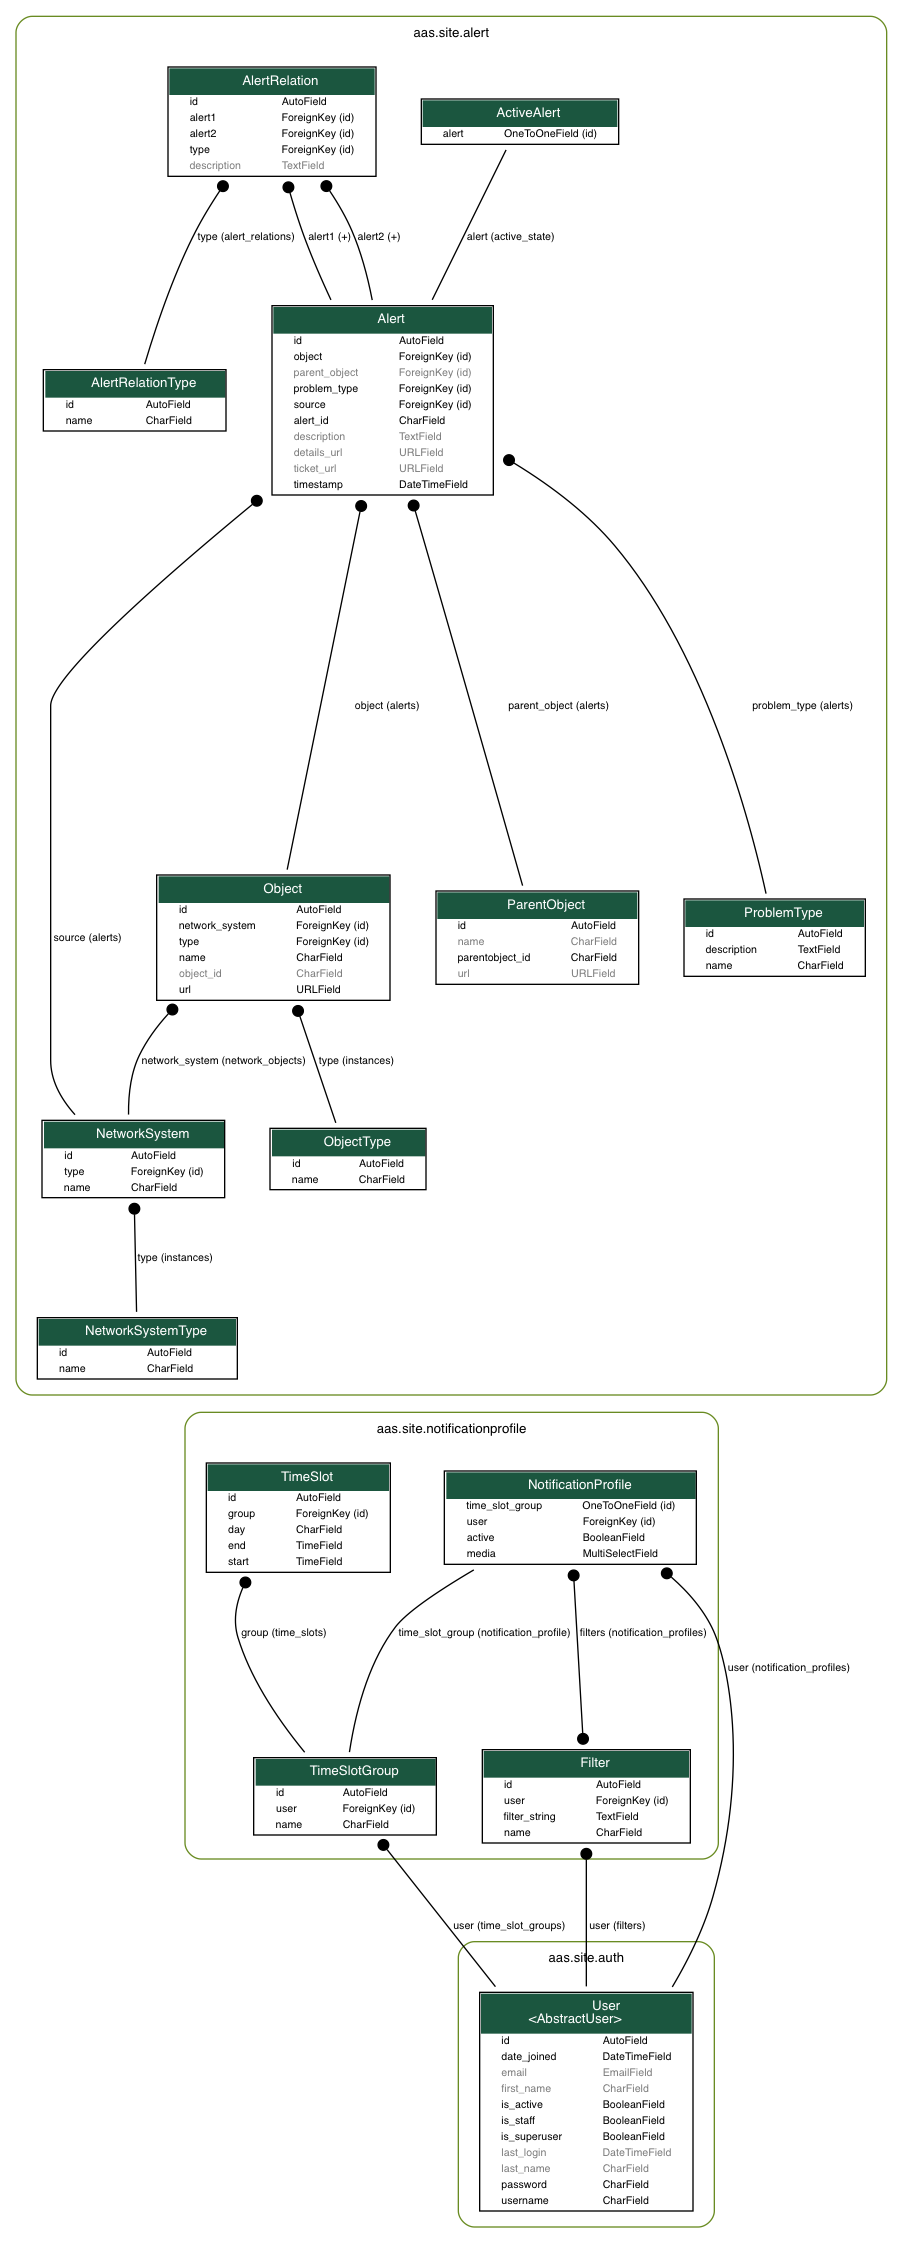
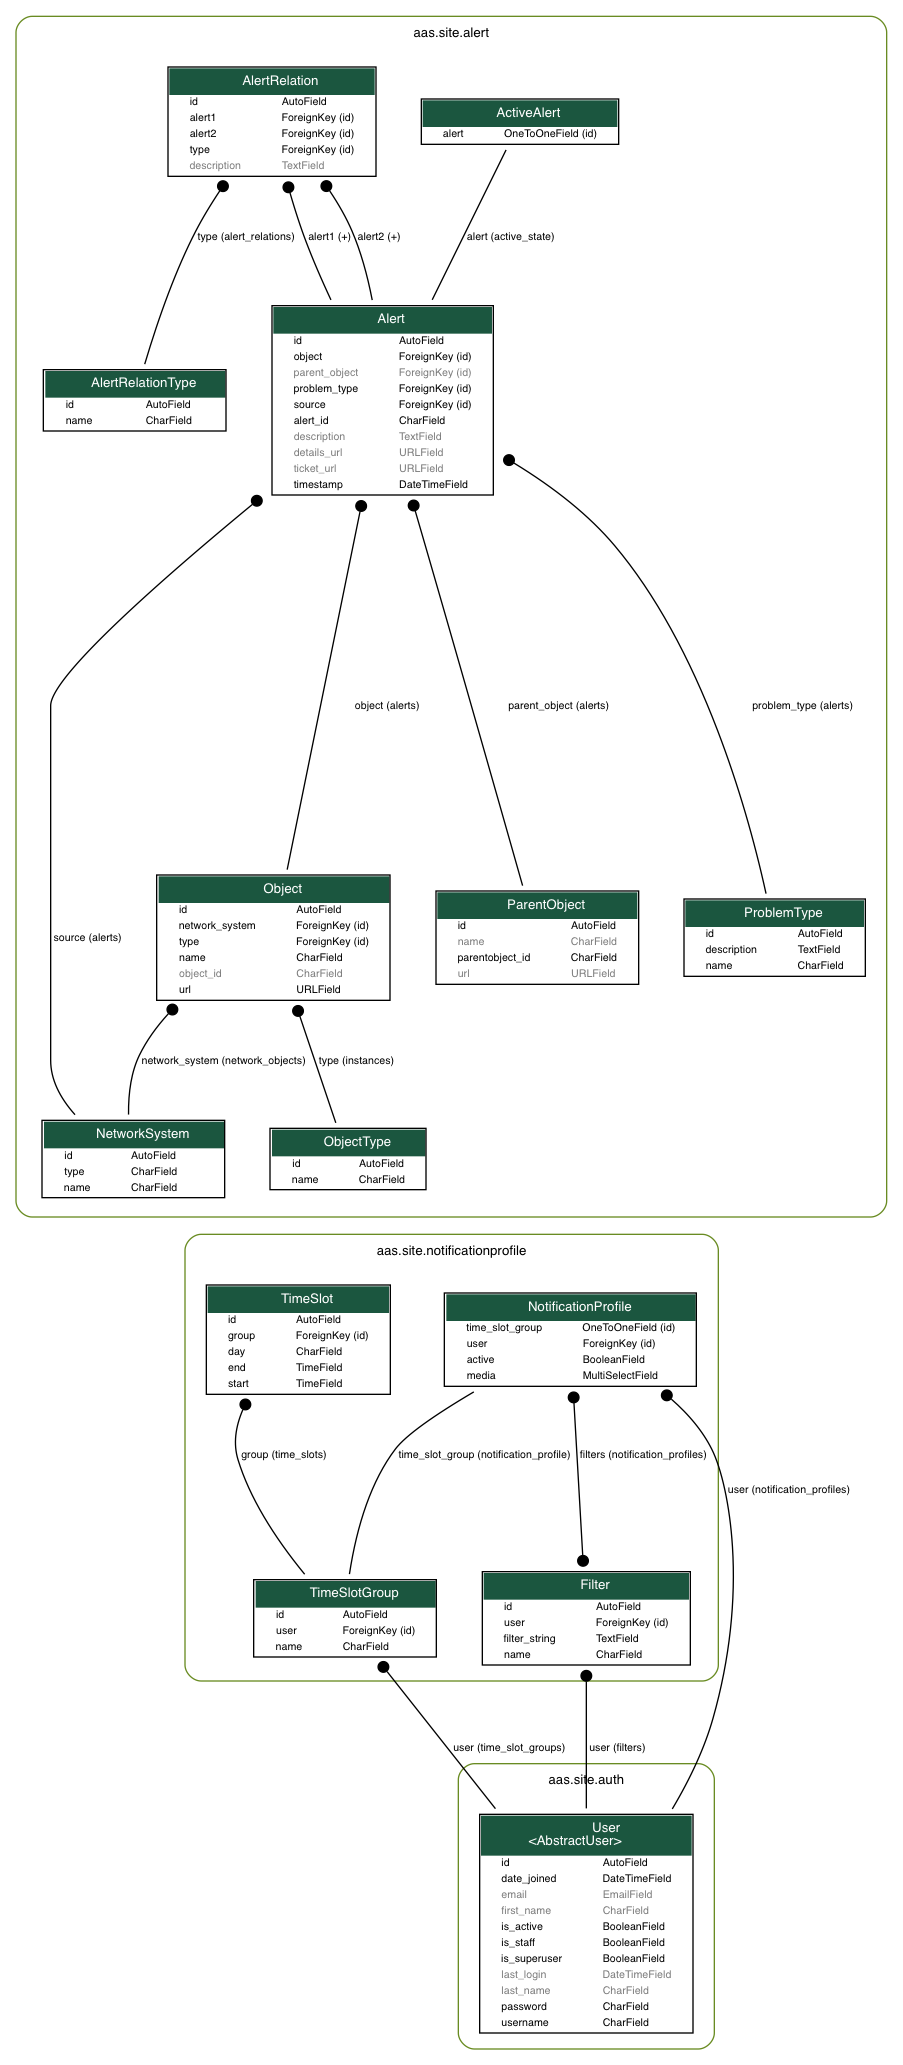
Replaced NetworkSystemType with choice field :sparkles:

diff --git a/src/aas/site/alert/mappings.py b/src/aas/site/alert/mappings.py
@@ -2,6 +2,7 @@ import random
 from typing import Tuple, Type, Union
 
 from django.db import IntegrityError, models
+from rest_framework import serializers
 from rest_framework.exceptions import ValidationError
 
 from .models import Alert, NetworkSystem, Object, ObjectType, ParentObject, ProblemType
@@ -105,7 +106,7 @@ class ForeignKeyField(FieldValueGetter):
 
 
 class FieldMapping:
-    def __init__(self, model: Type[models.Model], base_field_mappings: dict, *conditional_field_mappings: Choose):
+    def __init__(self, network_system_type: str, model: Type[models.Model], base_field_mappings: dict, *conditional_field_mappings: Choose):
         all_field_mappings = (
             base_field_mappings,
             *(cf.arg for cf in conditional_field_mappings),
@@ -117,6 +118,7 @@ class FieldMapping:
             validate_field_mappings(model, field_mappings)
             MappingUtils.prepare_field_value_getters(model, field_mappings)
 
+        self.network_system_type = network_system_type
         self.model = model
         self.base_field_mappings = base_field_mappings
         self.conditional_field_mappings = conditional_field_mappings
@@ -132,7 +134,7 @@ class FieldMapping:
         }
 
         # TODO: remove once source is saved from posted alerts
-        model_obj_kwargs['source'] = random.choice(NetworkSystem.objects.all())
+        model_obj_kwargs['source'] = random.choice(NetworkSystem.objects.filter(type=self.network_system_type))
 
         try:
             model_obj, _created = self.model.objects.get_or_create(**model_obj_kwargs)
@@ -148,6 +150,7 @@ class FieldMapping:
 
 
 NAV_FIELD_MAPPING = FieldMapping(
+    NetworkSystem.NAV,
     Alert,
     {
         Alert.timestamp:    PassthroughField('time'),
@@ -204,3 +207,17 @@ NAV_FIELD_MAPPING = FieldMapping(
         }
     )
 )
+
+SOURCE_MAPPING_DICT = {
+    NetworkSystem.NAV:    NAV_FIELD_MAPPING,
+    NetworkSystem.ZABBIX: None,
+}
+
+
+def create_alert_from_json(json_dict: dict, alert_source_type: str):
+    try:
+        mapping = SOURCE_MAPPING_DICT[alert_source_type]
+    except KeyError:
+        raise serializers.ValidationError(f"Invalid network system type '{alert_source_type}'.")
+
+    return mapping.create_model_obj_from_json(json_dict)

diff --git a/src/aas/site/alert/fixtures/generate_fixtures.py b/src/aas/site/alert/fixtures/generate_fixtures.py
@@ -99,7 +99,7 @@ def roll_dice(chance_threshold: float) -> bool:
 
 
 def format_url(network_system: NetworkSystem, name: str) -> str:
-    return f"http://{network_system.name}.{network_system.type.name}.no/{name.replace(' ', '%20')}".lower()
+    return f"http://{network_system.name}.{network_system.get_type_display()}.no/{name.replace(' ', '%20')}".lower()
 
 
 def set_pks(model_objects: List[Model]) -> List[Model]:
@@ -111,11 +111,8 @@ def set_pks(model_objects: List[Model]) -> List[Model]:
 
 
 # --- Generation functions ---
-def generate_network_system_types() -> List[Model]:
-    return set_pks([
-        NetworkSystemType(name="NAV"),
-        NetworkSystemType(name="Zabbix"),
-    ])
+def generate_network_system_types() -> List[str]:
+    return [type_key for type_key, _type_name in NetworkSystem.TYPE_CHOICES]
 
 
 def generate_network_systems(network_system_types) -> List[Model]:
@@ -238,8 +235,7 @@ def generate_alerts(network_systems, objects, parent_objects, problem_types) -> 
 
 
 def create_fixture_file():
-    network_system_types = generate_network_system_types()
-    network_systems = generate_network_systems(network_system_types)
+    network_systems = generate_network_systems(generate_network_system_types())
     object_types = generate_object_types()
     objects = generate_objects(object_types, network_systems)
     parent_objects = generate_parent_objects(network_systems)
@@ -247,7 +243,6 @@ def create_fixture_file():
     alerts = generate_alerts(network_systems, objects, parent_objects, problem_types)
 
     all_objects = (
-        *network_system_types,
         *network_systems,
         *object_types,
         *objects,

diff --git a/src/aas/site/alert/serializers.py b/src/aas/site/alert/serializers.py
@@ -1,26 +1,17 @@
 from rest_framework import serializers
 
-from .models import Alert, NetworkSystem, NetworkSystemType, Object, ObjectType, ParentObject, ProblemType
-
-
-class NetworkSystemTypeSerializer(serializers.ModelSerializer):
-    class Meta:
-        model = NetworkSystemType
-        fields = ['pk', 'name']
-        read_only_fields = ['pk']
+from .models import Alert, NetworkSystem, Object, ObjectType, ParentObject, ProblemType
 
 
 class NetworkSystemSerializer(serializers.ModelSerializer):
     class Meta:
         model = NetworkSystem
         fields = ['pk', 'name', 'type']
-        read_only_fields = ['pk']
+        read_only_fields = ['pk', 'type']
 
-    # type = NetworkSystemTypeSerializer(read_only=True)
-
-    def to_representation(self, instance):
+    def to_representation(self, instance: NetworkSystem):
         representation = super().to_representation(instance)
-        representation['type'] = NetworkSystemTypeSerializer(instance.type).data
+        representation['type'] = instance.get_type_display()
         return representation
 
 
@@ -39,7 +30,7 @@ class ObjectSerializer(serializers.ModelSerializer):
 
     # type = ObjectTypeSerializer(read_only=True)
 
-    def to_representation(self, instance):
+    def to_representation(self, instance: Object):
         representation = super().to_representation(instance)
         representation['type'] = ObjectTypeSerializer(instance.type).data
         return representation

diff --git a/src/aas/site/alert/admin.py b/src/aas/site/alert/admin.py
@@ -1,10 +1,6 @@
 from django.contrib import admin
 
-from .models import ActiveAlert, Alert, AlertRelation, AlertRelationType, NetworkSystem, NetworkSystemType, Object, ObjectType, ParentObject, ProblemType
-
-
-class NetworkSystemTypeAdmin(admin.ModelAdmin):
-    list_display = ('name',)
+from .models import ActiveAlert, Alert, AlertRelation, AlertRelationType, NetworkSystem, Object, ObjectType, ParentObject, ProblemType
 
 
 class NetworkSystemAdmin(admin.ModelAdmin):
@@ -56,7 +52,7 @@ class AlertAdmin(admin.ModelAdmin):
     list_display = ('alert_id', 'timestamp', 'source', 'object', 'parent_object', 'details_url', 'problem_type', 'ticket_url', 'get_active_state')
     search_fields = (
         'alert_id',
-        'source__name', 'source__type__name',
+        'source__name', 'source__type',
         'object__name', 'object__object_id', 'object__type__name',
         'parent_object__name', 'parent_object__parentobject_id',
         'problem_type__name',
@@ -102,7 +98,6 @@ class AlertRelationAdmin(admin.ModelAdmin):
     get_str.short_description = "Alert relation"
 
 
-admin.site.register(NetworkSystemType, NetworkSystemTypeAdmin)
 admin.site.register(NetworkSystem, NetworkSystemAdmin)
 admin.site.register(ObjectType, ObjectTypeAdmin)
 admin.site.register(Object, ObjectAdmin)

diff --git a/src/aas/site/alert/models.py b/src/aas/site/alert/models.py
@@ -2,26 +2,19 @@ from django.db import models
 from django.db.models import Q, QuerySet
 
 
-class NetworkSystemType(models.Model):
-    class Meta:
-        ordering = ['name']
-
-    name = models.CharField(max_length=50)
-
-    def __str__(self):
-        return self.name
-
-
 class NetworkSystem(models.Model):
-    name = models.CharField(max_length=50)
-    type = models.ForeignKey(
-        to=NetworkSystemType,
-        on_delete=models.CASCADE,
-        related_name='instances',
+    NAV = 'NAV'
+    ZABBIX = 'Zabbix'
+    TYPE_CHOICES = (
+        (NAV, NAV),
+        (ZABBIX, ZABBIX),
     )
 
+    name = models.CharField(max_length=50)
+    type = models.CharField(max_length=max(len(t[0]) for t in TYPE_CHOICES), choices=TYPE_CHOICES)
+
     def __str__(self):
-        return self.name
+        return f"{self.name} ({self.get_type_display()})"
 
 
 class ObjectType(models.Model):
@@ -133,7 +126,7 @@ class Alert(models.Model):
 
     @staticmethod
     def prefetch_related_fields(qs: QuerySet):
-        return qs.prefetch_related('source', 'source__type', 'object', 'object__type', 'parent_object', 'problem_type')
+        return qs.prefetch_related('source', 'object__type', 'parent_object', 'problem_type')
 
 
 class ActiveAlert(models.Model):

diff --git a/src/aas/site/alert/migrations/0007_delete_networksystemtype_model.py b/src/aas/site/alert/migrations/0007_delete_networksystemtype_model.py
@@ -1,0 +1,34 @@
+# Generated by Django 2.2.5 on 2019-11-20 12:22
+
+from django.db import migrations, models
+
+
+def change_network_system_type_from_fk_to_char(apps, schema_editor):
+    NetworkSystem = apps.get_model('alert', 'NetworkSystem')
+    NetworkSystemType = apps.get_model('alert', 'NetworkSystemType')
+
+    for network_system in NetworkSystem.objects.all():
+        system_type = NetworkSystemType.objects.get(pk=int(network_system.type))
+        type_name = system_type.name.upper()
+        type_key = 'NAV' if type_name == 'NAV' else 'Zabbix'
+        network_system.type = type_key
+        network_system.save()
+
+
+class Migration(migrations.Migration):
+
+    dependencies = [
+        ('alert', '0006_active_alert'),
+    ]
+
+    operations = [
+        migrations.AlterField(
+            model_name='networksystem',
+            name='type',
+            field=models.CharField(choices=[('NAV', 'NAV'), ('Zabbix', 'Zabbix')], max_length=6),
+        ),
+        migrations.RunPython(change_network_system_type_from_fk_to_char, migrations.RunPython.noop),
+        migrations.DeleteModel(
+            name='NetworkSystemType',
+        ),
+    ]

diff --git a/src/aas/site/alert/views.py b/src/aas/site/alert/views.py
@@ -22,7 +22,7 @@ class AlertList(generics.ListCreateAPIView):
 
     def post(self, request, *args, **kwargs):
         created_alerts = [
-            mappings.NAV_FIELD_MAPPING.create_model_obj_from_json(json_dict)
+            mappings.create_alert_from_json(json_dict, NetworkSystem.NAV)  # TODO: interpret network system type from alerts' source IP?
             for json_dict in request.data
         ]
 
@@ -78,7 +78,7 @@ def all_alerts_from_source_view(request, source_pk):
 
 @api_view(['GET'])
 def get_all_meta_data_view(request):
-    network_systems = NetworkSystemSerializer(NetworkSystem.objects.select_related('type'), many=True)
+    network_systems = NetworkSystemSerializer(NetworkSystem.objects.all(), many=True)
     object_types = ObjectTypeSerializer(ObjectType.objects.all(), many=True)
     parent_objects = ParentObjectSerializer(ParentObject.objects.all(), many=True)
     problem_types = ProblemTypeSerializer(ProblemType.objects.all(), many=True)
